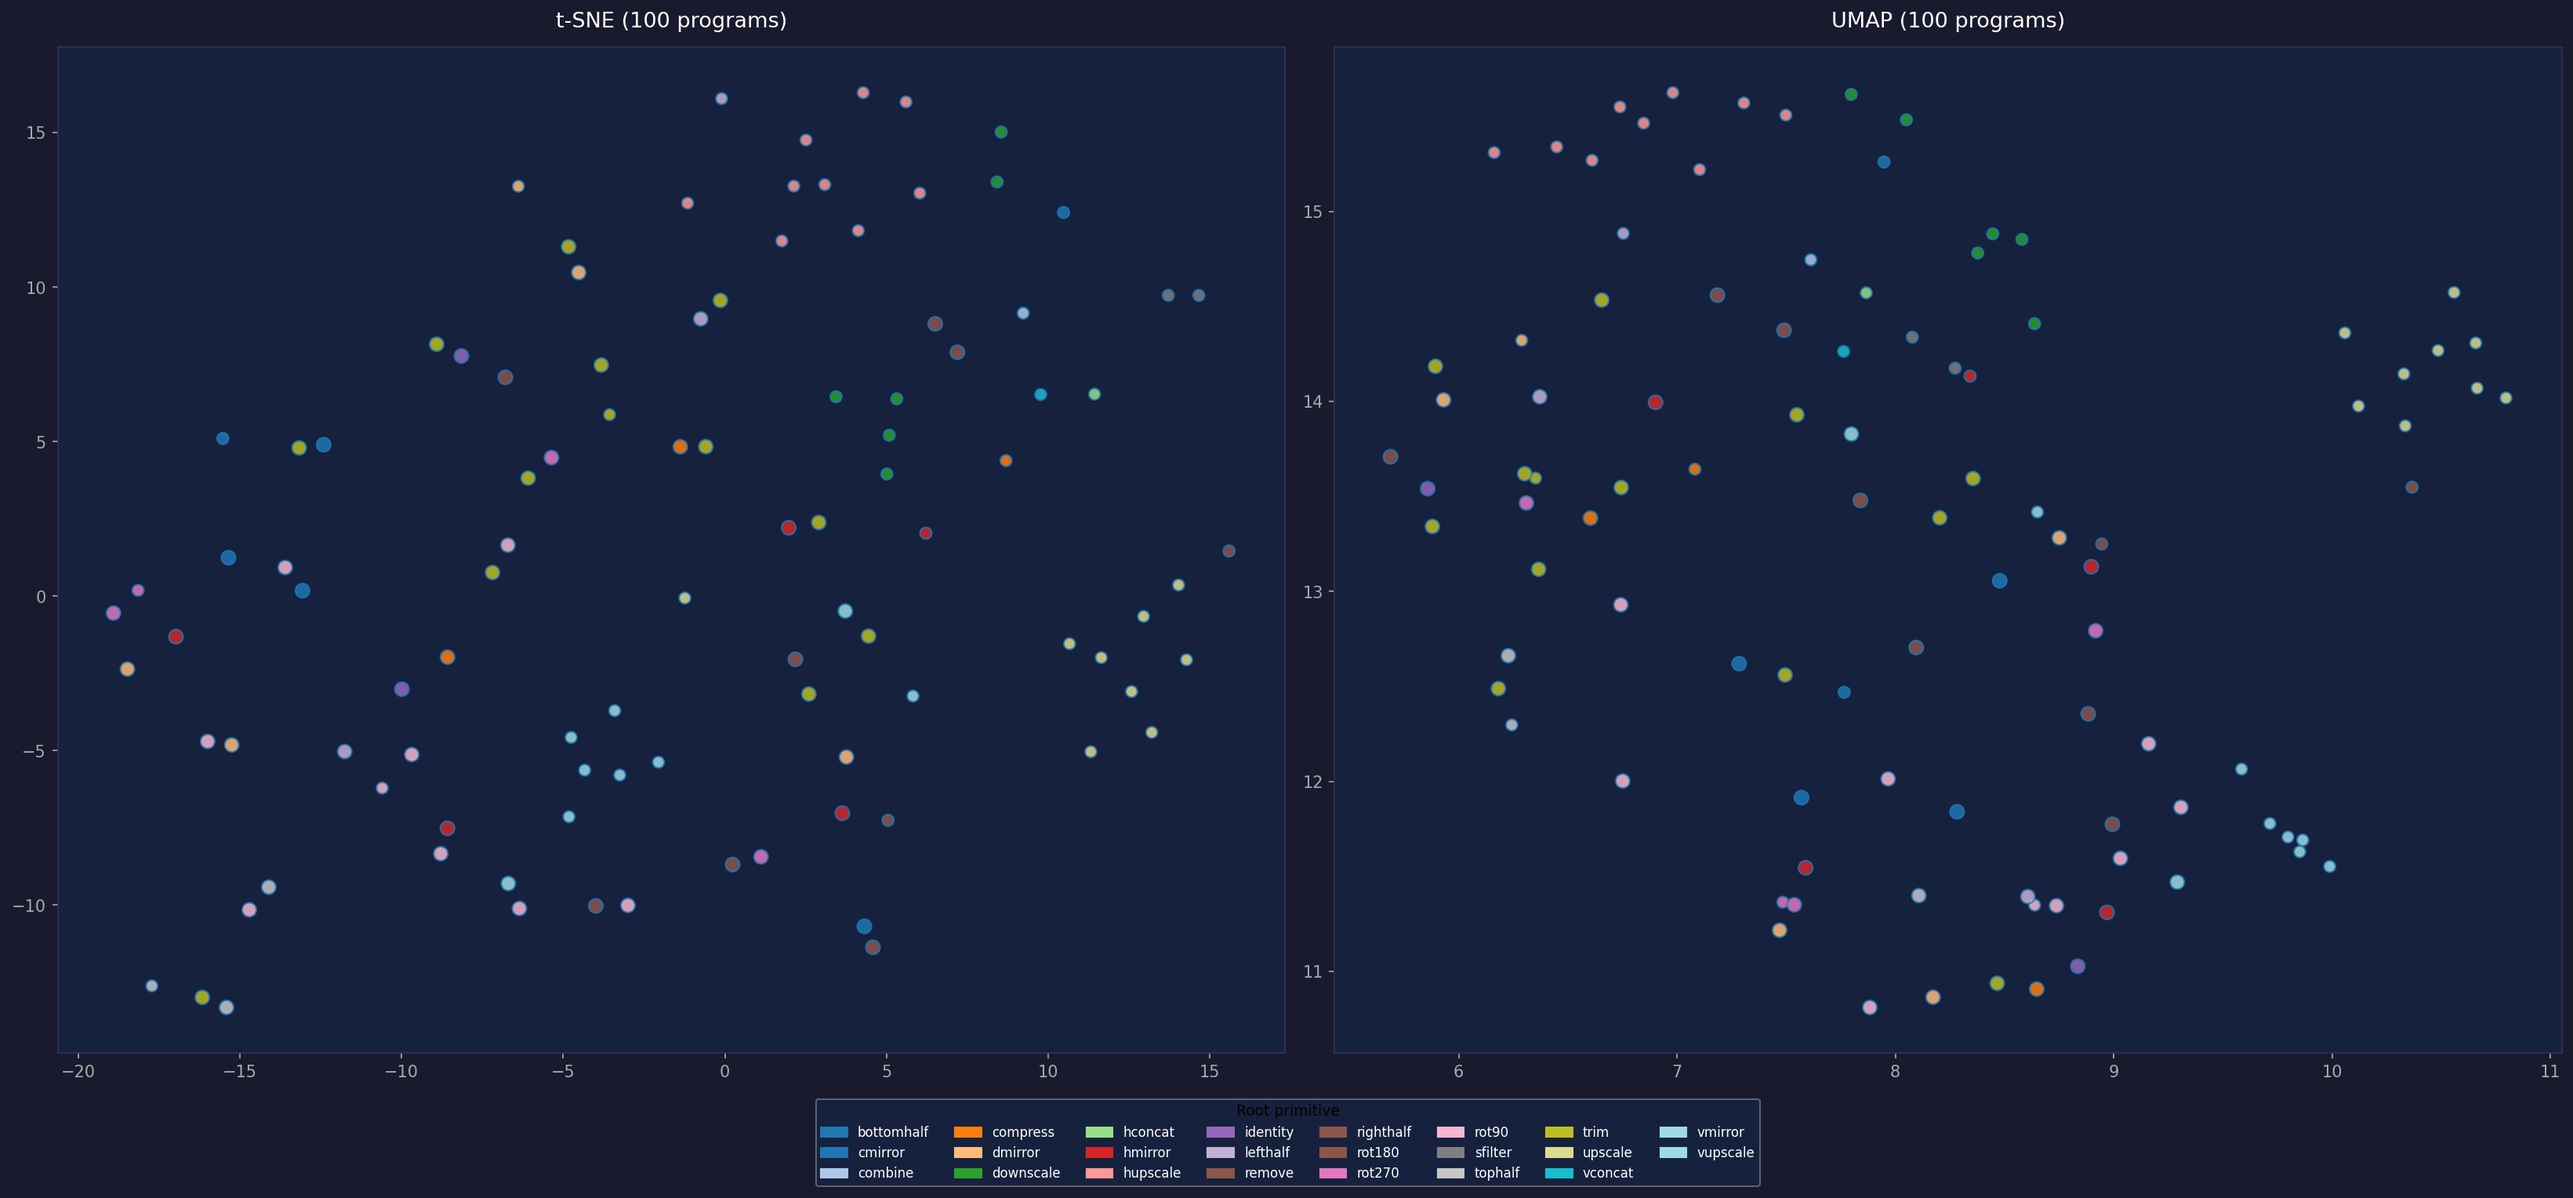
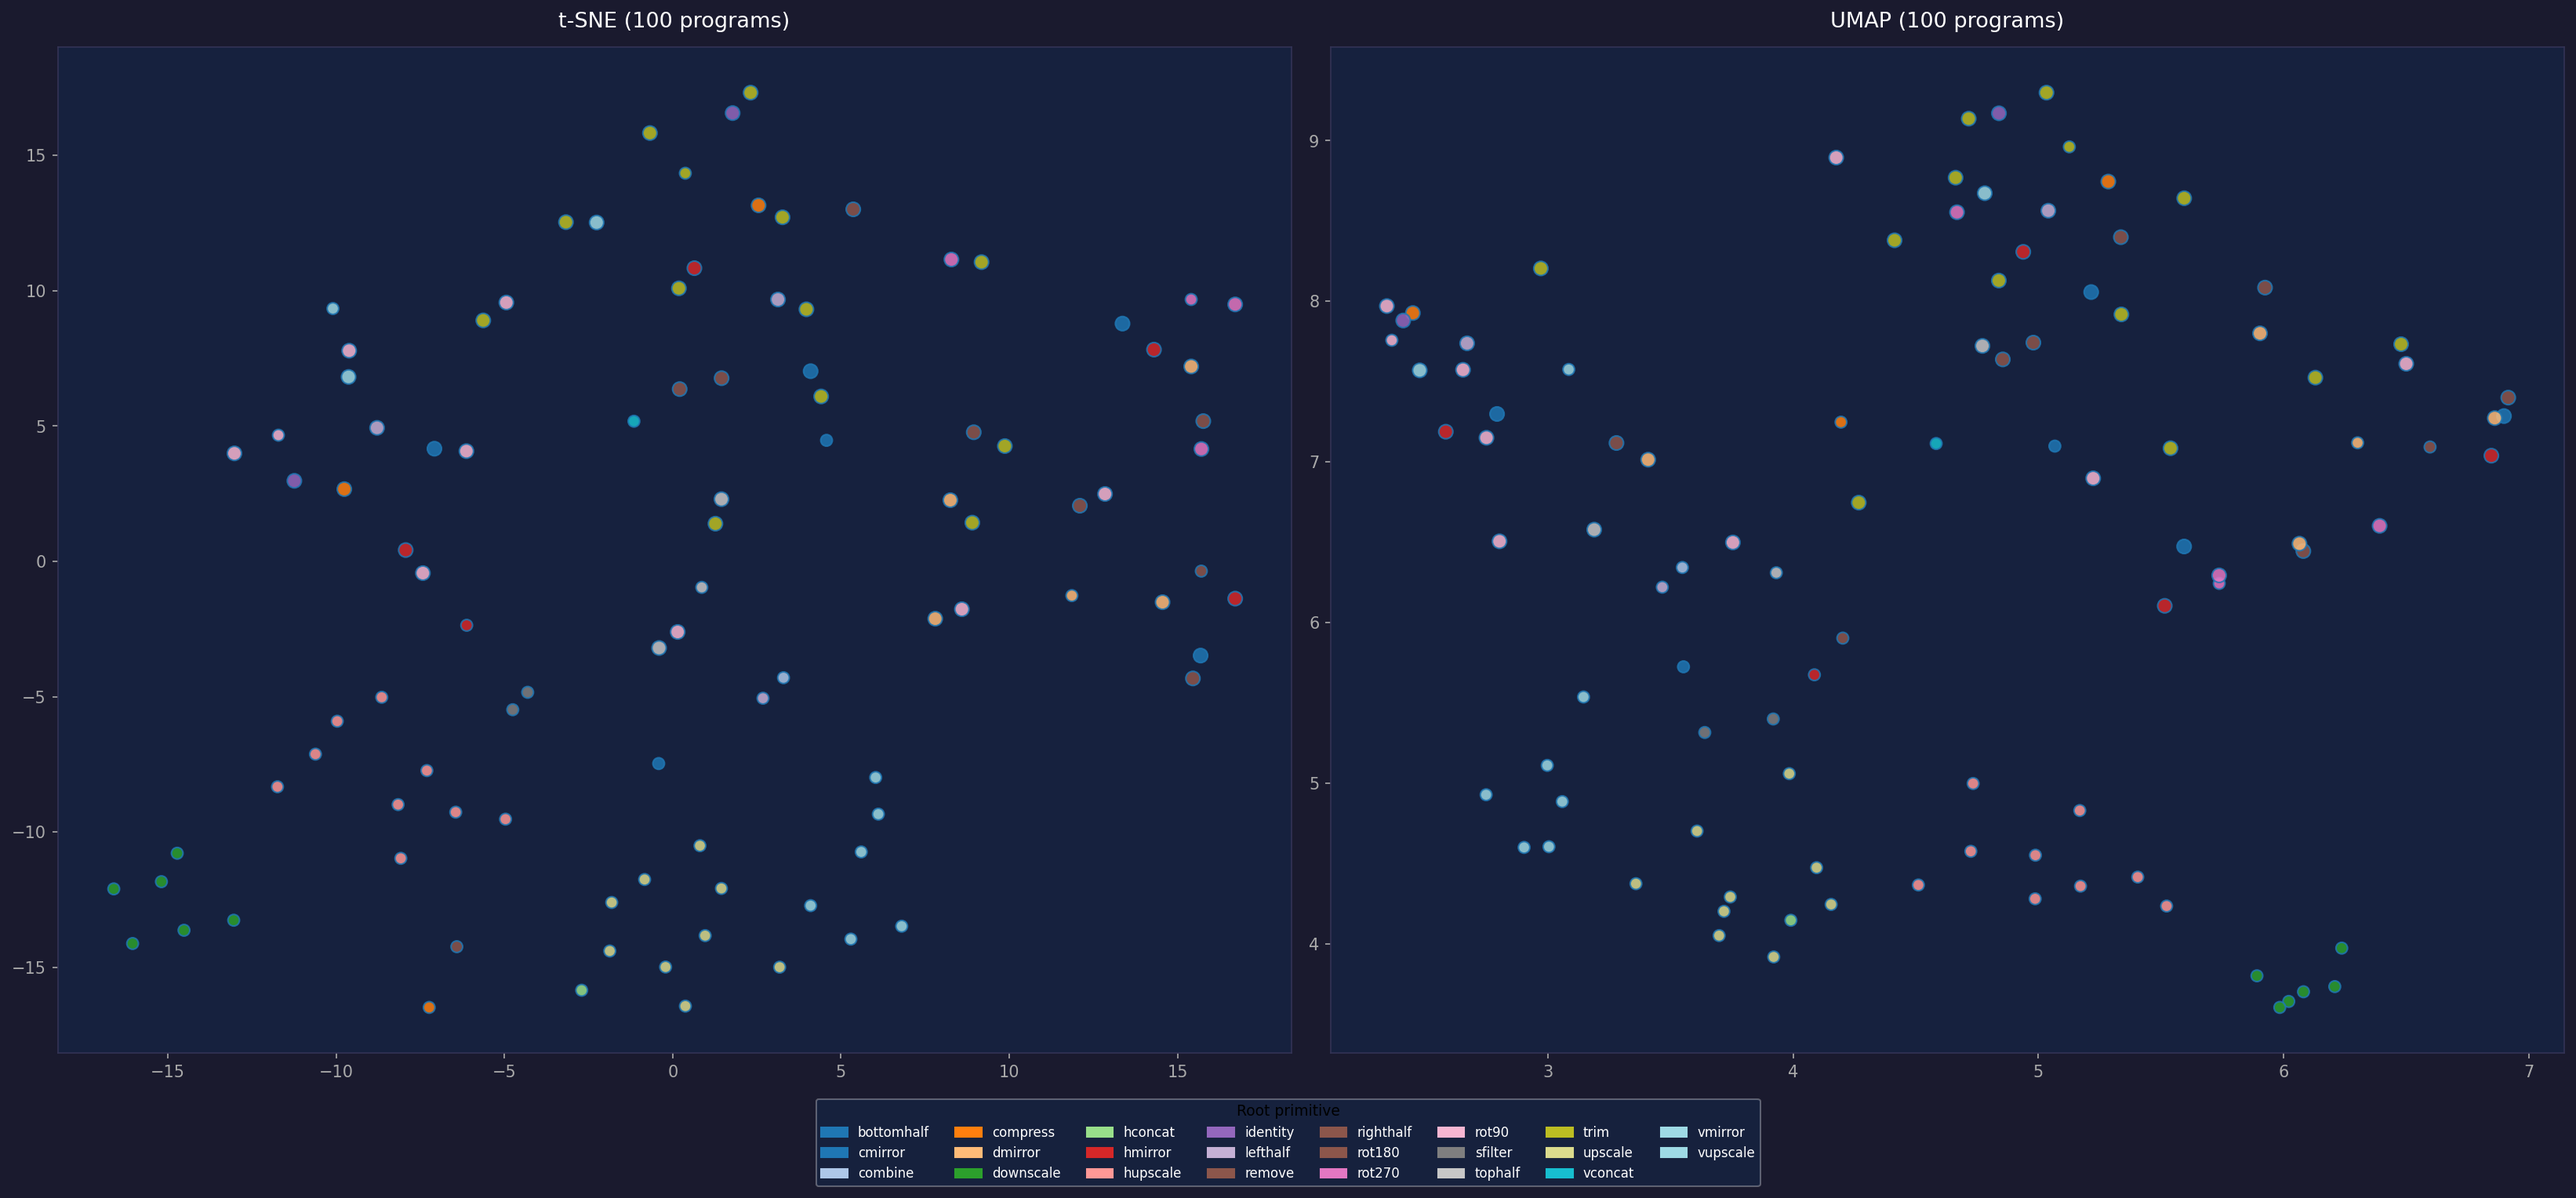
Update analyze_dsl_model.py usage instructions and improve embedding extraction logic; add new embedding visualization images

diff --git a/scripts/analyze_dsl_model.py b/scripts/analyze_dsl_model.py
@@ -1,8 +1,8 @@
 """
 Usage :
-  python analyze_dsl_model.py --dataset dsl_dataset.txt --n 100 --method tsne
-  python analyze_dsl_model.py --dataset dsl_dataset.txt --n 100 --method umap
-  python analyze_dsl_model.py --dataset dsl_dataset.txt --n 100 --method both
+  python analyze_dsl_model.py --n 100 --method tsne
+  python analyze_dsl_model.py --n 100 --method umap
+  python analyze_dsl_model.py --n 100 --method both
 ================================================================================
 """
 
@@ -53,7 +53,6 @@ def extract_embeddings(
                     z = prog_encoder(graph)   # [1, D]
                 embeddings.append(z.squeeze(0).cpu().numpy())
             else:
-                # Proxy : moyenne des token embeddings (sans GNN)
                 token_ids = graph.x.cpu().numpy()
                 emb = np.mean(
                     np.eye(max(vocab.values()) + 1)[token_ids], axis=0
@@ -82,7 +81,7 @@ def build_graph(program_str: str, vocab: dict, device: str = "cpu") -> Data:
             idx  = add_node(name)
             if parent_idx is not None:
                 edges.append([parent_idx, idx])
-                edges.append([idx, parent_idx])   # bidirectionnel
+                edges.append([idx, parent_idx])
             for arg in node.args:
                 visit(arg, idx)
             return idx
@@ -421,13 +420,13 @@ def main():
 
         if model_path.exists():
             try:
-                from dsl_model import DSLProgramEncoder
-                ckpt         = torch.load(args.model, map_location=args.device,
-                                          weights_only=True)
-                prog_encoder = DSLProgramEncoder(
-                    vocab_size=len(vocab), d_model=256
-                ).to(args.device)
-                prog_encoder.load_state_dict(ckpt.get("prog_encoder", ckpt))
+                import dsl_model
+                import dsl_rl
+                dslModel = dsl_model.DSLModel(len(dsl_rl.VOCAB.token2id), d_model = 256, device = args.device)
+                model = dslModel.to(args.device)
+                checkpoint = torch.load(args.model, map_location = args.device)
+                model.load_state_dict(checkpoint["model_state"])
+                prog_encoder = dslModel.prog_encoder
                 prog_encoder.eval()
                 print(f"[Model] Encoder GNN loaded from {args.model}")
             except Exception as e:
@@ -438,7 +437,7 @@ def main():
     else:
         print("[Mode] Proxy token-embedding (--model not specified)")
 
-    print(f"[Extract] Computation of embeddings fo {len(programs)} programs...")
+    print(f"[Extract] Embedding computation for {len(programs)} programs...")
     embeddings = extract_embeddings(programs, prog_encoder, vocab, args.device)
     print(f"  Shape : {embeddings.shape}")
 
